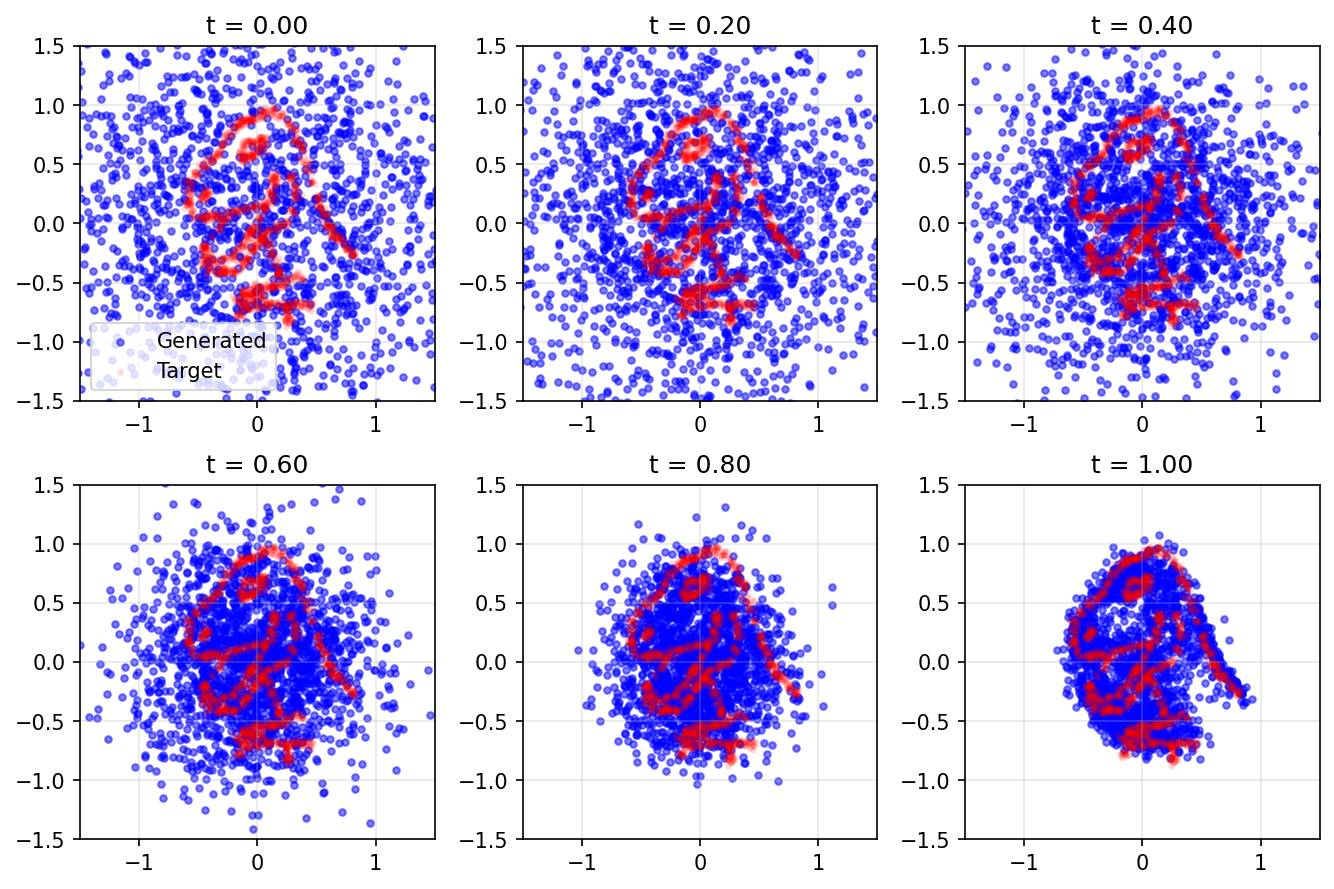
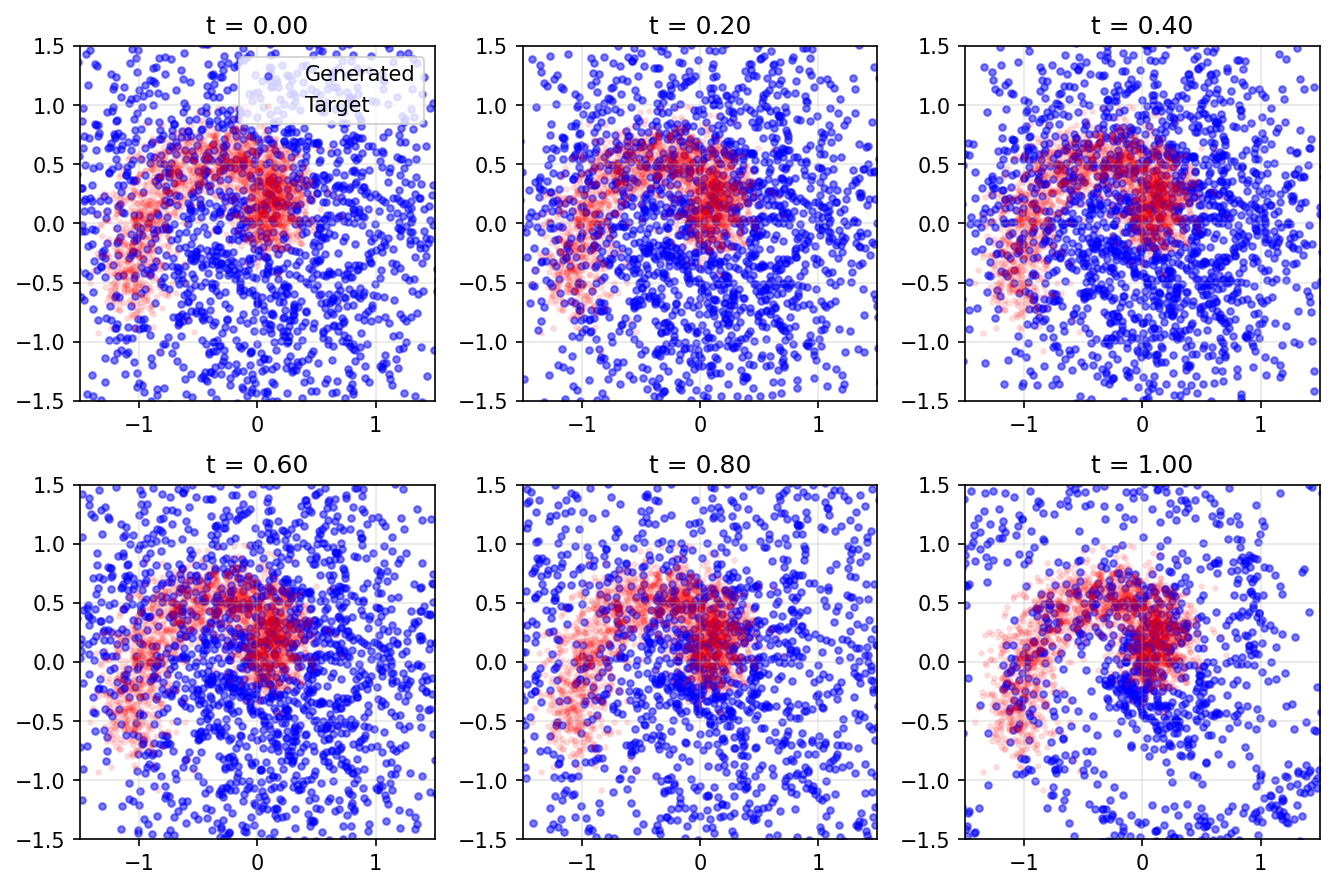
Switch dataset from T-Rex to spiral for training and visualization
Updated train.py and visualize.py to use SpiralDataset and
generate_spiral_data instead of the T-Rex dataset. Also updated
animation titles to reflect the spiral dataset.

diff --git a/src/flow_visualizer/visualize.py b/src/flow_visualizer/visualize.py
@@ -11,7 +11,7 @@ import torch
 from omegaconf import DictConfig, OmegaConf
 from tqdm import tqdm
 
-from flow_visualizer.data import generate_trex_data
+from flow_visualizer.data import generate_spiral_data
 from flow_visualizer.model import FlowMatchingModel, MLPVelocityNet
 
 logger = logging.getLogger(__name__)
@@ -245,7 +245,7 @@ def create_flow_animation(
         )
 
         # Add title with time
-        ax.set_title(f"Flow Matching: t = {t:.3f}\nGaussian → T-Rex", fontsize=16, fontweight="bold")
+        ax.set_title(f"Flow Matching: t = {t:.3f}\nGaussian → Spiral", fontsize=16, fontweight="bold")
         ax.set_xlim(-1.5, 1.5)
         ax.set_ylim(-1.5, 1.5)
         ax.set_aspect("equal")
@@ -442,7 +442,7 @@ def create_density_animation(
         )
 
         ax.set_title(
-            f"Density Evolution: t = {t:.3f}\nGaussian → T-Rex Distribution",
+            f"Density Evolution: t = {t:.3f}\nGaussian → Spiral Distribution",
             fontsize=14,
             fontweight="bold",
         )
@@ -585,7 +585,7 @@ def main(cfg: DictConfig) -> None:
 
     # Generate target data
     logger.info("Generating target data...")
-    target_data = generate_trex_data(
+    target_data = generate_spiral_data(
         n_samples=cfg.data.n_samples,
         noise=cfg.data.noise,
     )

diff --git a/src/flow_visualizer/train.py b/src/flow_visualizer/train.py
@@ -10,7 +10,7 @@ from omegaconf import DictConfig, OmegaConf
 from torch.utils.data import DataLoader
 from tqdm import tqdm
 
-from flow_visualizer.data import TRexDataset
+from flow_visualizer.data import SpiralDataset
 from flow_visualizer.model import FlowMatchingModel, MLPVelocityNet
 
 logger = logging.getLogger(__name__)
@@ -57,7 +57,7 @@ def main(cfg: DictConfig) -> None:
 
     # Create dataset
     logger.info("Creating dataset...")
-    dataset = TRexDataset(
+    dataset = SpiralDataset(
         n_samples=cfg.data.n_samples,
         noise=cfg.data.noise,
     )
